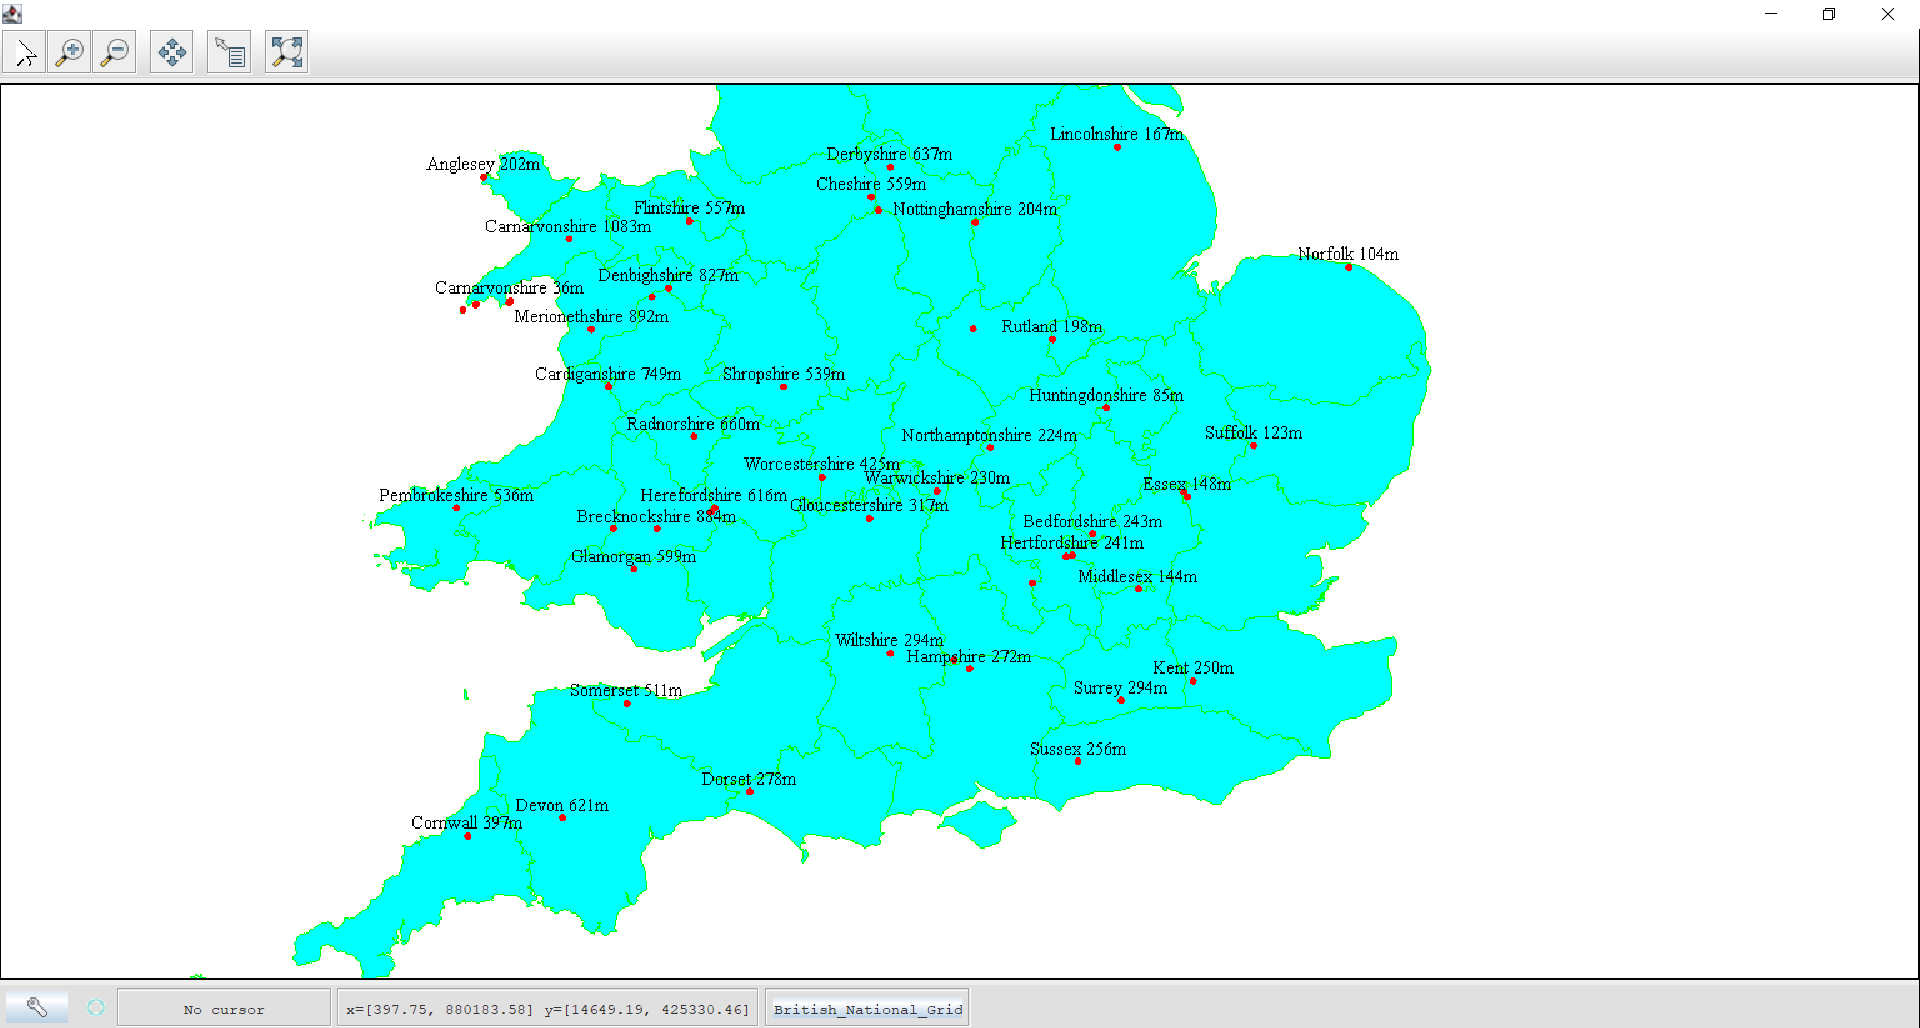
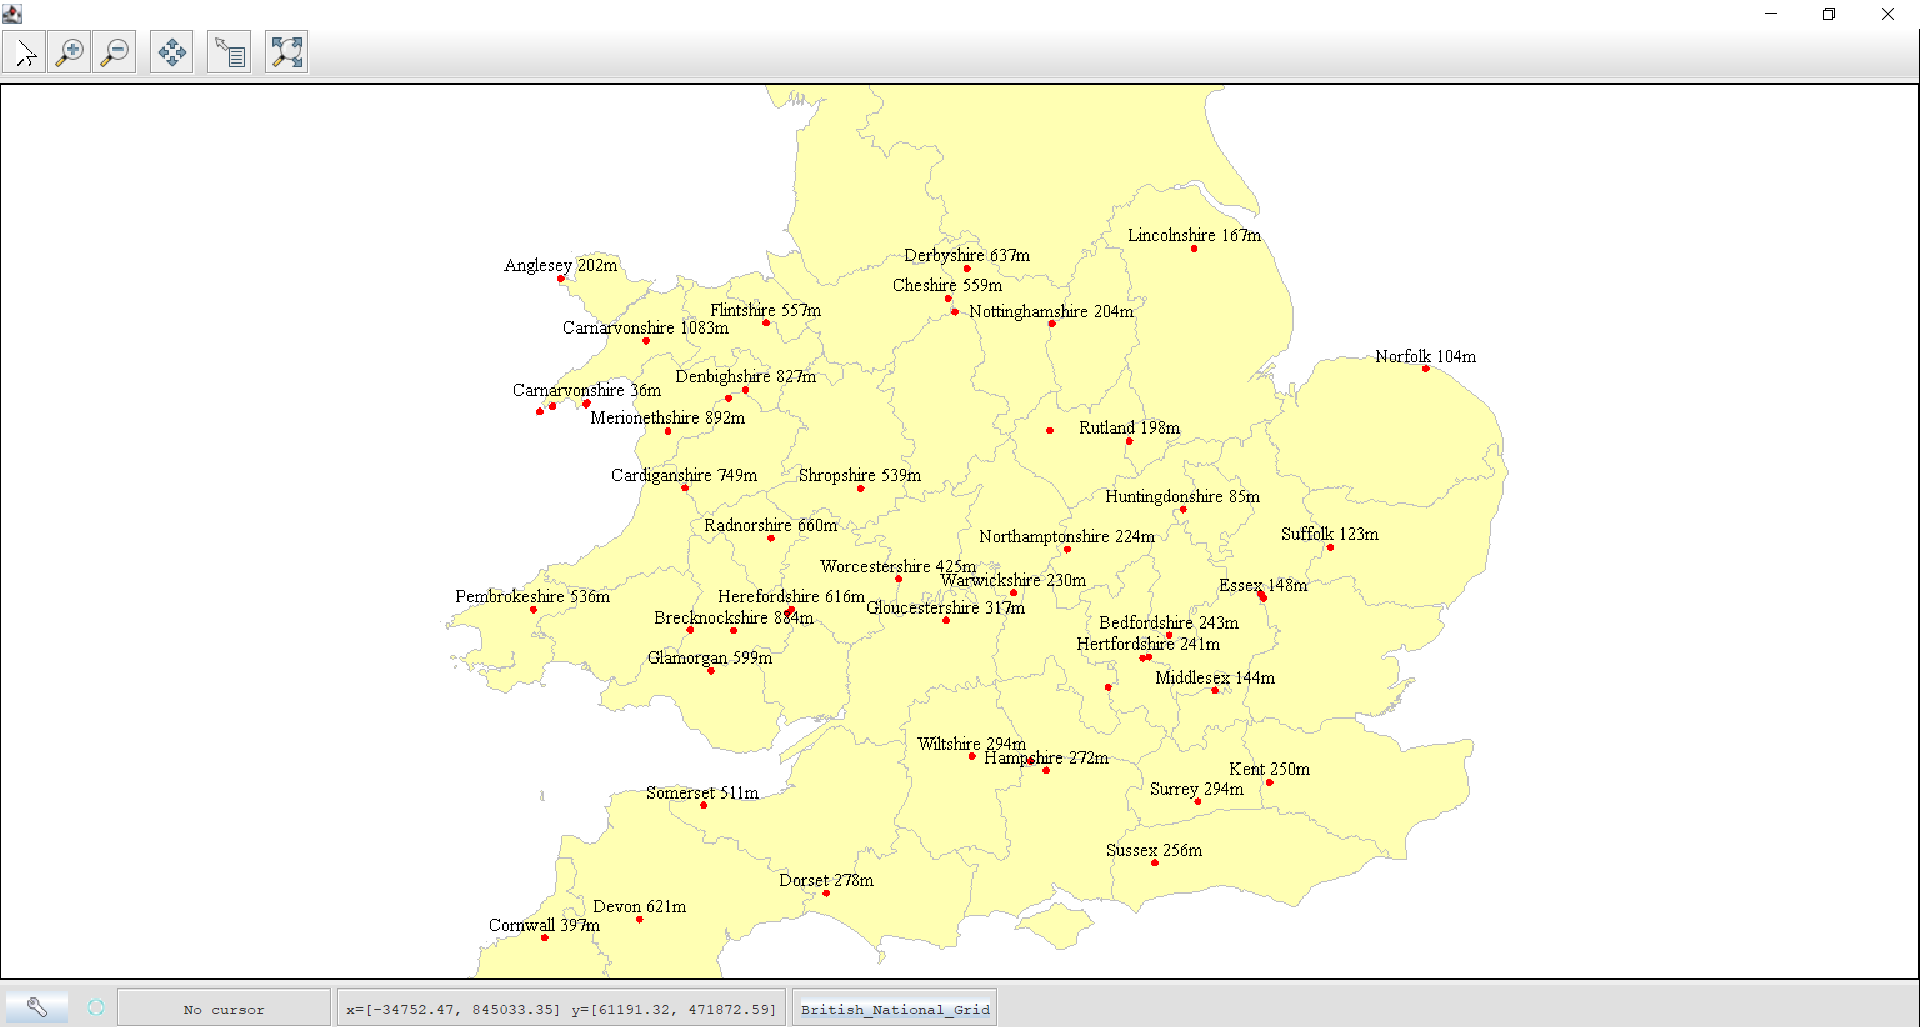
Changes colours to improve readability

diff --git a/app/src/main/java/highest/points/map/Map.java b/app/src/main/java/highest/points/map/Map.java
@@ -28,7 +28,7 @@ public class Map {
     @Builder.Default
     private List<SimpleFeature> points = null;
 
-    public static Style DEFAULT_POLYGON_STYLE = SLD.createPolygonStyle(Color.green, Color.CYAN, 1.0f);
+    public static Style DEFAULT_POLYGON_STYLE = SLD.createPolygonStyle(Color.lightGray, Color.getHSBColor(0.167f, 0.3f, 1.0f), 1.0f);
     public static Style DEFAULT_COVERAGE_STYLE = SLD.wrapSymbolizers(CommonFactoryFinder.getStyleFactory().getDefaultRasterSymbolizer());
     public static Style DEFAULT_POINT_STYLE = SLD.createPointStyle("circle", Color.RED, Color.RED, 1.0f, 5.0f, "FEAT_TYPE", new StyleBuilder().createFont("sans-serif", 15.0f));
 
